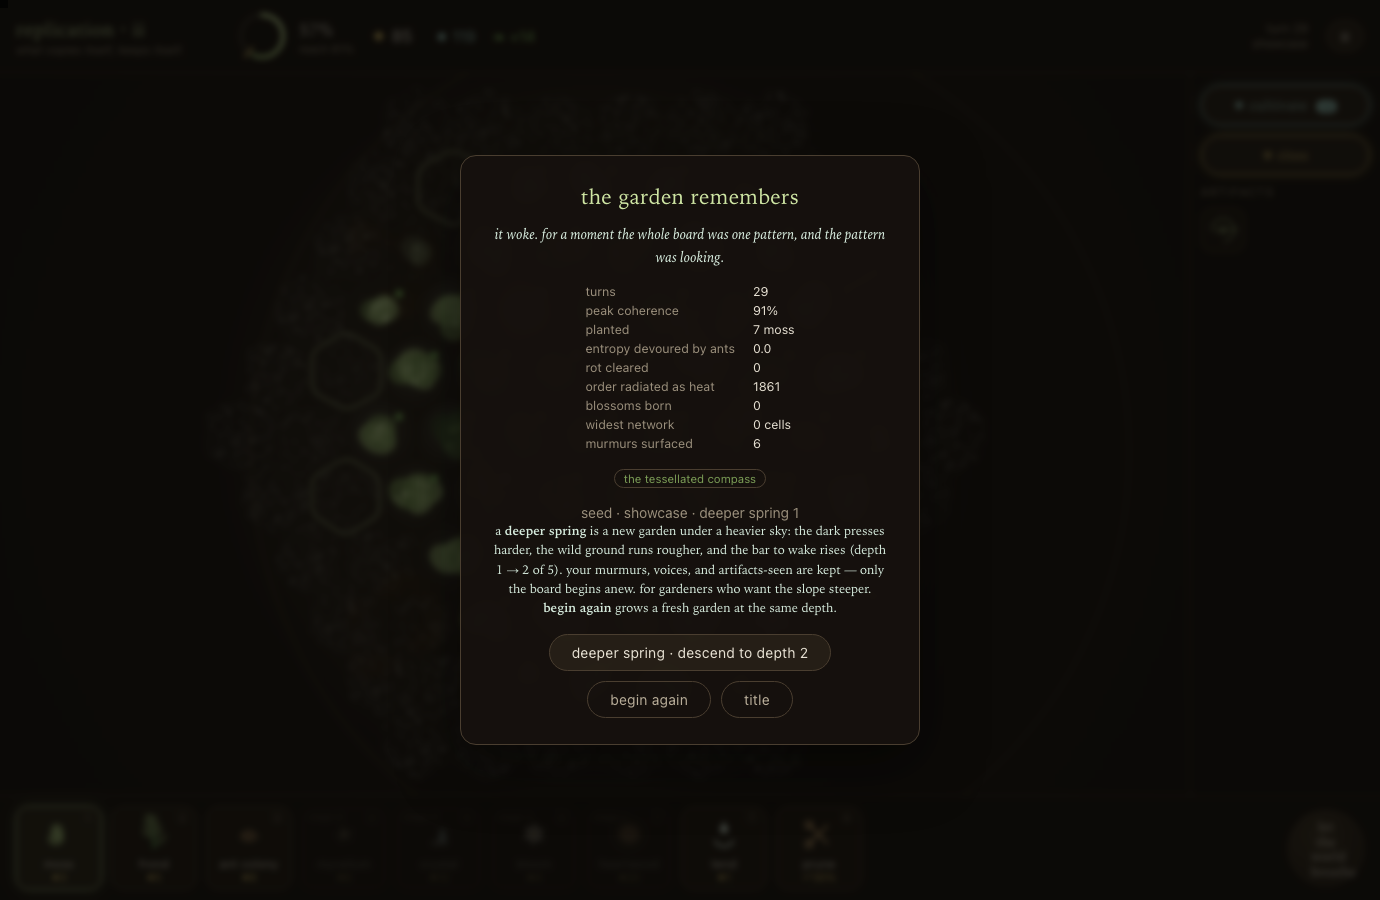
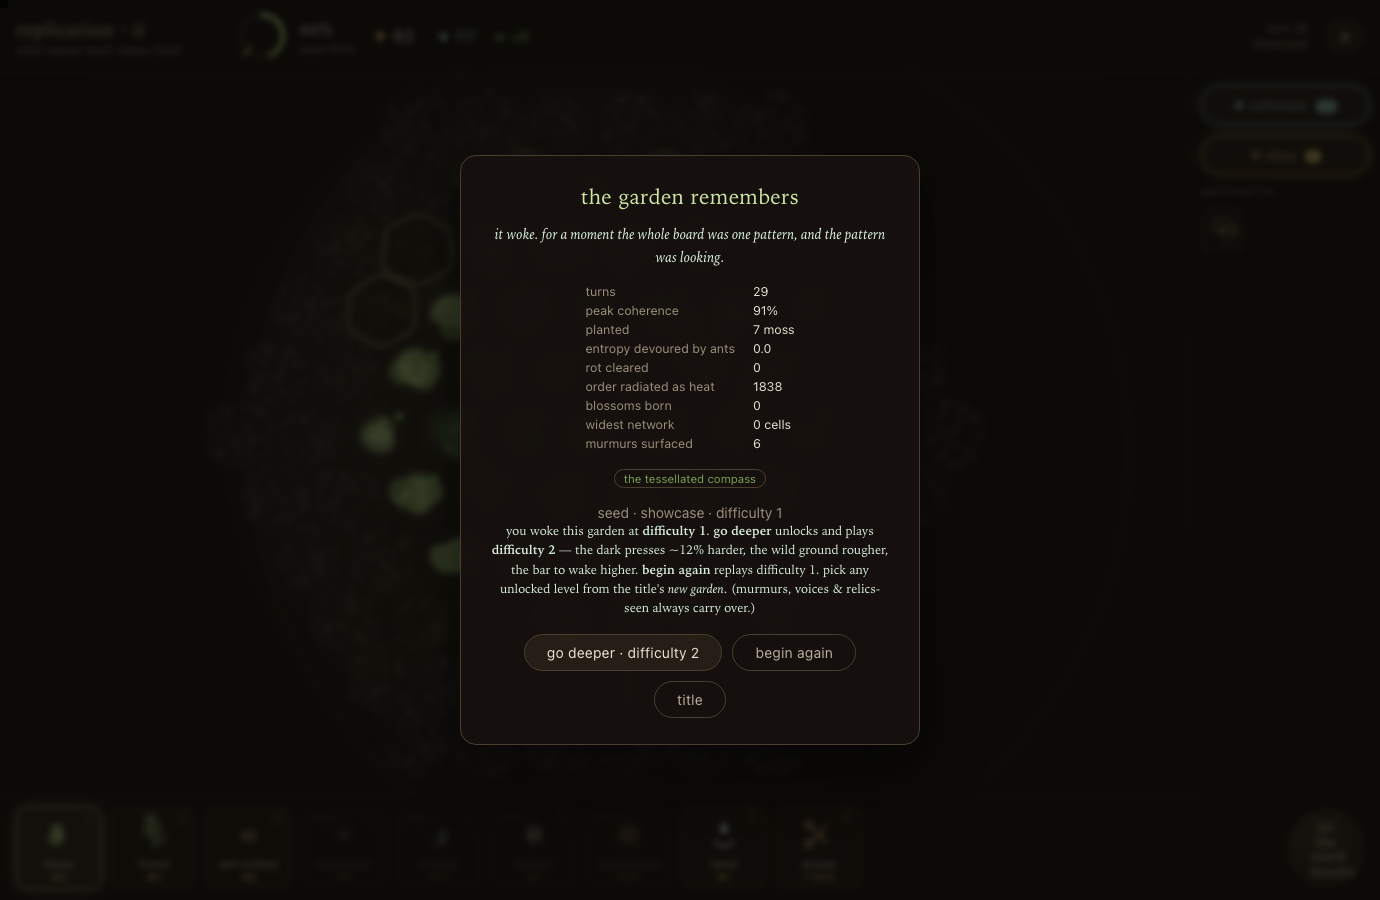
difficulty: explicit, selectable, resettable to baseline
Reframes "deeper spring" / "depth" as what it actually is — a difficulty
level — per playtest feedback ("make it explicit ... option to reset back
to baseline ... explain wtf depth means").

- new-garden screen gains a difficulty picker: chips baseline..deepest
  unlocked, defaulting to your hardest, with a live one-line explanation
  of what each level does (~12%/level more entropy pressure, rougher new
  ground, higher bar to wake). step back down to baseline any time.
- difficulty is now per-run (game.asc), distinct from "deepest unlocked"
  (meta.asc). newRun(seed, depth) takes an explicit level.
- win screen: "go deeper · difficulty N+1" (unlock + play next) and
  "begin again" (replay the level you just played); hidden at the cap.
- title + run stats say "difficulty N/5 unlocked" / "difficulty N" instead
  of the opaque "deeper spring N".

verified: new-garden picker + win box render correctly (shots/newgarden.png,
shots/won.png); harness ALL PASS.

diff --git a/loophole/js/ui.js b/loophole/js/ui.js
@@ -1094,7 +1094,7 @@
       </div>
       ${evos ? '<div class="endarts">' + evos + '</div>' : ''}
       <div class="endarts">${arts}</div>
-      <div class="muted center">seed · ${g.seed}${meta.asc ? ' · deeper spring ' + meta.asc : ''}</div>`;
+      <div class="muted center">seed · ${g.seed}${g.asc ? ' · difficulty ' + g.asc : ''}</div>`;
   }
 
   function onDissolved() {
@@ -1140,20 +1140,22 @@
      is ascension — spelled out here because the word alone never told players what it does. */
   function winOverlay() {
     return (wrap, close) => {
-      const next = Math.min(5, meta.asc + 1);
+      const cur = game.asc || 0;
+      const next = Math.min(5, cur + 1);
+      const canDeeper = cur < 5;
       const box = el('div', 'panelbox endbox');
       box.innerHTML = `
         <div class="paneltitle">the garden remembers</div>
         <p class="endnote">it woke. for a moment the whole board was one pattern, and the pattern was looking.</p>
         ${statsHTML(game)}
-        <p class="endnote muted small">a <b>deeper spring</b> is a new garden under a heavier sky: the dark presses harder, the wild ground runs rougher, and the bar to wake rises (depth ${meta.asc} → ${next} of 5). your murmurs, voices, and artifacts-seen are kept — only the board begins anew. for gardeners who want the slope steeper. <b>begin again</b> grows a fresh garden at the same depth.</p>
+        <p class="endnote muted small">you woke this garden at <b>difficulty ${cur}</b>${cur ? '' : ' (baseline)'}.${canDeeper ? ` <b>go deeper</b> unlocks and plays <b>difficulty ${next}</b> — the dark presses ~12% harder, the wild ground rougher, the bar to wake higher.` : ' you stand at the deepest spring there is.'} <b>begin again</b> replays difficulty ${cur}. pick any unlocked level from the title's <i>new garden</i>. (murmurs, voices &amp; relics-seen always carry over.)</p>
         <div class="endbtns">
-          <button id="e-deeper">deeper spring · descend to depth ${next}</button>
+          ${canDeeper ? `<button id="e-deeper">go deeper · difficulty ${next}</button>` : ''}
           <button id="e-again" class="ghostbtn">begin again</button>
           <button id="e-title" class="ghostbtn">title</button>
         </div>`;
-      box.querySelector('#e-deeper').onclick = () => { meta.asc = next; save(); close(); newRun(); };
-      box.querySelector('#e-again').onclick = () => { close(); newRun(); };
+      if (canDeeper) box.querySelector('#e-deeper').onclick = () => { meta.asc = Math.max(meta.asc, next); save(); close(); newRun(undefined, next); };
+      box.querySelector('#e-again').onclick = () => { close(); newRun(undefined, cur); };
       box.querySelector('#e-title').onclick = () => { close(); showTitle(); };
       wrap.appendChild(box);
     };
@@ -1191,7 +1193,7 @@
     $('t-meta').textContent =
       (meta.runs ? `${meta.runs} garden${meta.runs > 1 ? 's' : ''} grown · ${meta.wins} awakened` : 'no gardens yet') +
       (meta.best ? ` · swiftest awakening ${meta.best} turns` : '') +
-      (meta.asc ? ` · deeper spring ${meta.asc}` : '');
+      (meta.asc ? ` · difficulty ${meta.asc}/5 unlocked` : '');
   }
   function hideTitle() {
     $('title').classList.add('hidden');
@@ -1200,9 +1202,18 @@
     $('rail').classList.remove('hidden');
   }
 
-  function newRun(seed) {
+  /* difficulty — internally "ascension"/"the depth of the spring". each step adds
+     entropy pressure, roughens new ground, and raises the bar to wake. stated plainly
+     wherever it's chosen so it never reads as mystery jargon. */
+  function diffLine(d) {
+    if (!d) return 'baseline — the garden at its native slope, as the second law wrote it.';
+    return `difficulty ${d} of 5 — the dark presses ~${d * 12}% harder, new ground comes in rougher, and the garden needs a little more coherence to wake. (your murmurs, voices & relics-seen always carry over.)`;
+  }
+
+  function newRun(seed, depth) {
     if (!seed) seed = C().prettySeed(Math.random);
-    game = new Game(seed, { ascension: meta.asc, echoes: meta.echoes });
+    const d = depth == null ? meta.asc : Math.max(0, Math.min(meta.asc, depth));
+    game = new Game(seed, { ascension: d, echoes: meta.echoes });
     lastIncome = null; prevC = null; quotesThisRun = 0;
     R.attach(game);
     hideTitle();
@@ -1286,7 +1297,8 @@
     if (kind === 'help') helpOverlay();
     if (kind === 'murmurs') { meta.echoes = [0, 1, 2, 3, 4, 5, 6, 7]; meta.quotes = [0, 1, 4, 10, 20]; murmursOverlay(); }
     if (kind === 'voice') { meta.quotes = []; surfaceQuote(); }
-    if (kind === 'won') { meta.asc = 1; game.stats.peakC = 0.91; pushOverlay(winOverlay(), { dismissible: false }); }
+    if (kind === 'won') { meta.asc = 2; game.asc = 1; game.stats.peakC = 0.91; pushOverlay(winOverlay(), { dismissible: false }); }
+    if (kind === 'newgarden') { meta.asc = 3; game = null; showTitle(); $('t-new').click(); }
     if (kind === 'end') { game.stats.peakC = 0.87; onDissolved(); }
     if (kind === 'cells') { R.valuesMode = true; }
     if (kind === 'widen') { game.widenReady = true; }
@@ -1352,10 +1364,22 @@
     $('railscrim').onclick = () => document.body.classList.remove('railopen');
     $('menubtn').onclick = () => menuOverlay();
     $('t-new').onclick = () => {
+      /* difficulty picker — only once you've unlocked deeper springs. defaults to your
+         hardest (where you left off), but you can step back down to baseline any time. */
+      const picker = meta.asc ? `
+        <div class="diffpick">
+          <div class="codexhead">difficulty · unlocked through depth ${meta.asc}</div>
+          <div class="diffrow" id="diffrow">${
+        Array.from({ length: meta.asc + 1 }, (_, d) =>
+          `<button class="diffchip" data-d="${d}">${d === 0 ? 'baseline' : d}</button>`).join('')
+        }</div>
+          <div class="diffdesc" id="diffdesc"></div>
+        </div>` : '';
       pushOverlay(panelOverlay(`
         <div class="paneltitle">new garden</div>
-        <p class="muted">a seed makes the same world twice. share one, or trust the wind.${meta.asc ? `<br>it begins at <b>depth ${meta.asc}</b> of 5 — the deepest spring you've reached. (a heavier sky; your murmurs &amp; voices carry over.)` : ''}</p>
+        <p class="muted">a seed makes the same world twice. share one, or trust the wind.</p>
         <input id="seedin" type="text" spellcheck="false" placeholder="${C().prettySeed(Math.random)}">
+        ${picker}
         <div class="endbtns">
           <button id="s-go">plant it</button>
           <button id="s-rand" class="ghostbtn">trust the wind</button>
@@ -1363,10 +1387,20 @@
         wire(box, close) {
           const inp = box.querySelector('#seedin');
           inp.focus();
-          const go = () => { close(); newRun(inp.value.trim() || undefined); };
+          let pickedD = meta.asc;
+          const row = box.querySelector('#diffrow'), desc = box.querySelector('#diffdesc');
+          const paint = () => {
+            row.querySelectorAll('.diffchip').forEach(c => c.classList.toggle('on', +c.dataset.d === pickedD));
+            desc.textContent = diffLine(pickedD);
+          };
+          if (row) {
+            row.querySelectorAll('.diffchip').forEach(c => c.onclick = () => { pickedD = +c.dataset.d; paint(); });
+            paint();
+          }
+          const go = () => { close(); newRun(inp.value.trim() || undefined, meta.asc ? pickedD : undefined); };
           box.querySelector('#s-go').onclick = go;
           inp.onkeydown = e => { if (e.key === 'Enter') go(); };
-          box.querySelector('#s-rand').onclick = () => { close(); newRun(); };
+          box.querySelector('#s-rand').onclick = () => { close(); newRun(undefined, meta.asc ? pickedD : undefined); };
         }
       }));
     };

diff --git a/loophole/index.html b/loophole/index.html
@@ -308,6 +308,16 @@
   .evonode.owned .en-cost { color: var(--moss); }
   .evonode.locked { opacity: .5; }
 
+  /* difficulty picker (new garden) */
+  .diffpick { margin: 16px 0 4px; }
+  .diffrow { display: flex; gap: 7px; flex-wrap: wrap; justify-content: center; margin-bottom: 9px; }
+  .diffchip { min-width: 40px; padding: 7px 11px; font-family: var(--serif); font-size: 14px;
+    border: 1px solid var(--line2); background: transparent; color: var(--muted); border-radius: 7px; cursor: pointer; }
+  .diffchip:hover { color: var(--dew); }
+  .diffchip.on { border-color: var(--gold); color: var(--gold); box-shadow: 0 0 10px rgba(230,200,106,0.22); }
+  .diffdesc { font-family: var(--serif); font-style: italic; font-size: 12.5px; color: var(--dew);
+    text-align: center; min-height: 34px; line-height: 1.5; }
+
   /* stats over time */
   .statlegend { display: flex; gap: 16px; margin-bottom: 10px; font-size: 11.5px; }
   .statlegend .lg::before { content: '—'; margin-right: 5px; font-weight: bold; }
